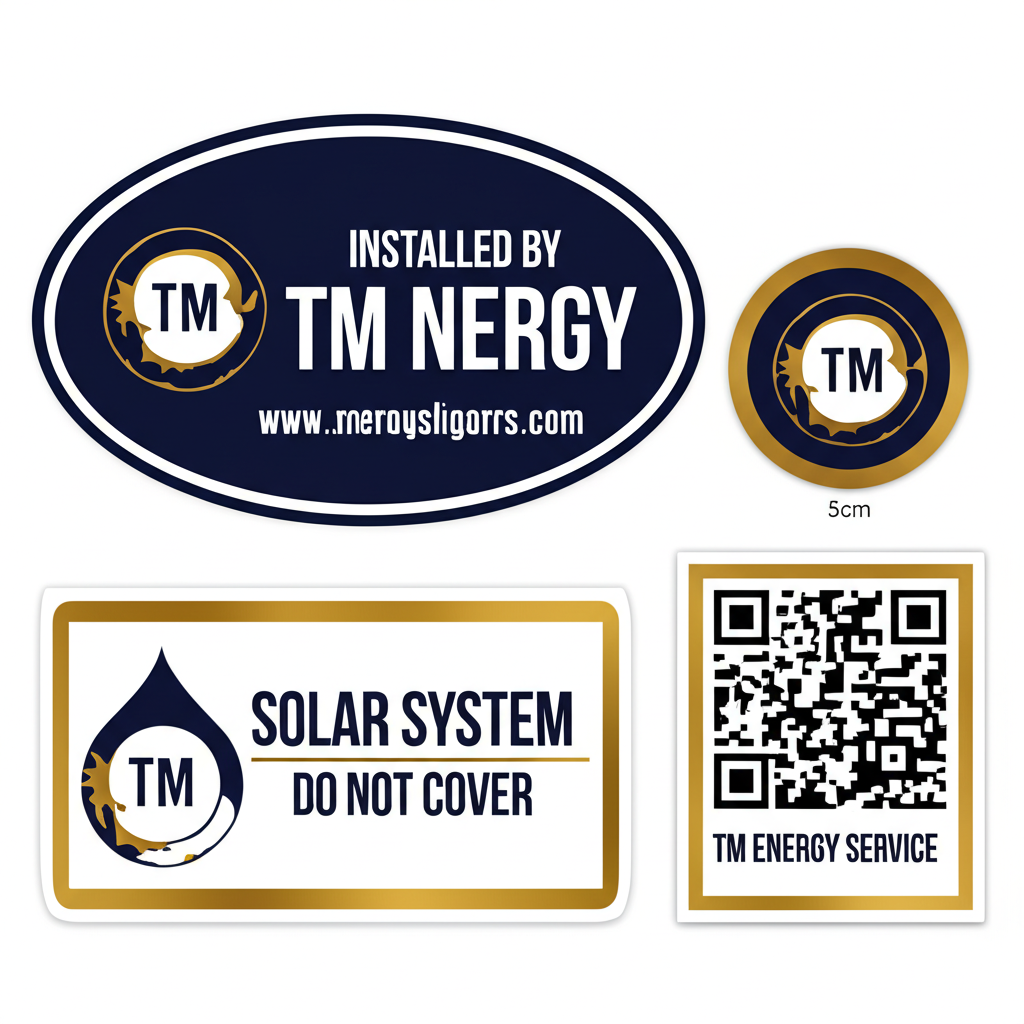
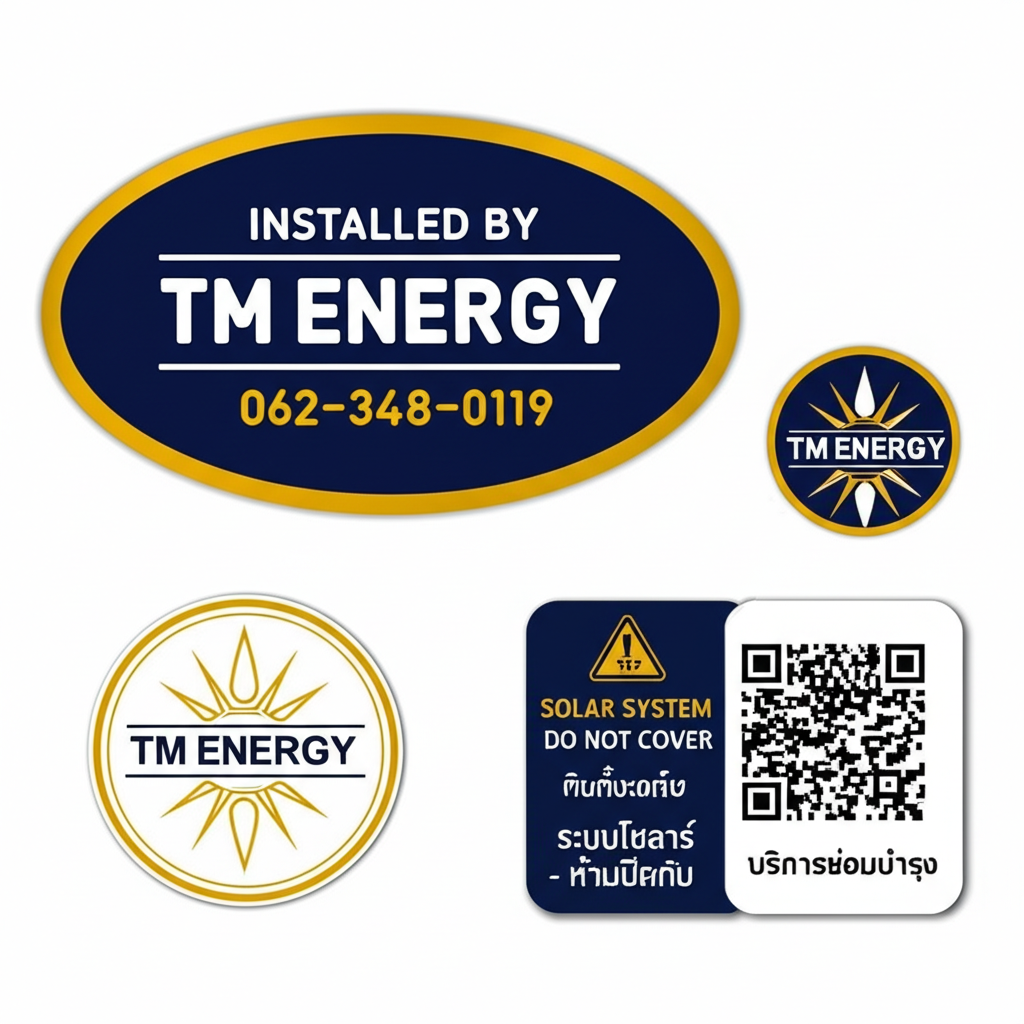
Brand kit v2: added Thai text to all assets

diff --git a/brand-kit.html b/brand-kit.html
@@ -149,7 +149,7 @@ section{padding:60px 0}
 <img src="brand-kit/vehicle-wrap.png" alt="Vehicle Wrap">
 <div class="asset-card-body">
 <h4>🚗 עיטוף רכב — Toyota Hilux</h4>
-<p>לוגו TM Energy על דלתות, קרני שמש על הצד, פרטי קשר. Navy + Gold על רכב לבן.</p>
+<p>לוגו TM Energy + พลังงานแสงอาทิตย์ על דלתות, ติดตั้งโซลาร์เซลล์ בגב. Navy + Gold.</p>
 <div class="specs">תבנית להדפסה: 3M vinyl wrap · 300 DPI</div>
 </div>
 </div>
@@ -158,7 +158,7 @@ section{padding:60px 0}
 <img src="brand-kit/tshirt-design.png" alt="T-shirt Design">
 <div class="asset-card-body">
 <h4>👕 חולצת עובדים — פולו כחול כהה</h4>
-<p>לוגו קטן בחזה שמאל, TM ENERGY + SOLAR POWER SOLUTIONS בגב. Navy polo.</p>
+<p>לוגו בחזה, TM ENERGY + ทีเอ็ม เอนเนอร์จี้ พลังงานแสงอาทิตย์ בגב. Navy polo.</p>
 <div class="specs">הזמנה: Polo cotton 220gsm · רקמה/הדפסה</div>
 </div>
 </div>
@@ -167,7 +167,7 @@ section{padding:60px 0}
 <img src="brand-kit/safety-gear.png" alt="Safety Gear">
 <div class="asset-card-body">
 <h4>⛑ קסדה + אפוד בטיחות</h4>
-<p>קסדה לבנה עם לוגו TM Energy. אפוד Navy עם פסי זהב + SOLAR INSTALLATION TEAM.</p>
+<p>קסדה עם ทีเอ็ม เอนเนอร์จี้. אפוד עם ทีมติดตั้งโซลาร์ (Solar Installation Team) בגב.</p>
 <div class="specs">קסדה: מדבקה ויניל · אפוד: הדפסה על בד</div>
 </div>
 </div>
@@ -176,7 +176,7 @@ section{padding:60px 0}
 <img src="brand-kit/business-card.png" alt="Business Card">
 <div class="asset-card-body">
 <h4>💼 כרטיס ביקור</h4>
-<p>חזית: Navy + לוגו + שם + תפקיד. גב: לבן + לוגו גדול + OWN YOUR ENERGY.</p>
+<p>חזית: Navy + לוגו + שם + ผู้ร่วมก่อตั้ง. גב: เป็นเจ้าของพลังงาน + เกาะพะงัน สุราษฎร์ธานี.</p>
 <div class="specs">90×55mm · 350gsm matte · embossed gold foil</div>
 </div>
 </div>
@@ -185,7 +185,7 @@ section{padding:60px 0}
 <img src="brand-kit/equipment-stickers.png" alt="Equipment Stickers">
 <div class="asset-card-body">
 <h4>🏷 מדבקות ציוד</h4>
-<p>INSTALLED BY TM ENERGY, לוגו עגול, SOLAR SYSTEM WARNING, QR code service.</p>
+<p>ติดตั้งโดย TM Energy, ระบบโซลาร์ - ห้ามปิดทับ, QR בริการซ่อมบำรุง.</p>
 <div class="specs">Weatherproof vinyl · UV resistant · 3-5 year outdoor</div>
 </div>
 </div>
@@ -194,7 +194,7 @@ section{padding:60px 0}
 <img src="brand-kit/site-banner.png" alt="Site Banner">
 <div class="asset-card-body">
 <h4>🚧 שלט אתר בנייה</h4>
-<p>SOLAR INSTALLATION IN PROGRESS + לוגו TM Energy + TM Developers. 3 מטר.</p>
+<p>กำลังติดตั้งระบบโซลาร์เซลล์ + SOLAR INSTALLATION IN PROGRESS + เกาะพะงัน. 3 מטר.</p>
 <div class="specs">3000×1000mm · PVC banner · 440gsm · eyelets</div>
 </div>
 </div>
@@ -210,10 +210,12 @@ section{padding:60px 0}
 <h2 class="section-title">סלוגנים ומסרים</h2>
 
 <div style="display:grid;grid-template-columns:repeat(auto-fit,minmax(250px,1fr));gap:16px">
-<div class="type-sample"><h3 style="color:var(--gold);font-family:'Space Grotesk';font-size:20px">Own Your Energy</h3><p style="font-size:12px;color:var(--gray)">סלוגן ראשי — אנגלית</p></div>
-<div class="type-sample"><h3 style="color:var(--gold);font-family:'Space Grotesk';font-size:20px">เป็นเจ้าของพลังงาน</h3><p style="font-size:12px;color:var(--gray)">סלוגן ראשי — תאית</p></div>
-<div class="type-sample"><h3 style="color:var(--gold);font-family:'Space Grotesk';font-size:20px">Powering Koh Phangan's Future</h3><p style="font-size:12px;color:var(--gray)">Tagline — אנגלית</p></div>
-<div class="type-sample"><h3 style="color:var(--gold);font-family:'Space Grotesk';font-size:20px">Solar Power Solutions</h3><p style="font-size:12px;color:var(--gray)">תת-כותרת קבועה</p></div>
+<div class="type-sample"><h3 style="color:var(--gold);font-family:'Space Grotesk';font-size:20px">Own Your Energy</h3><p style="font-size:12px;color:var(--gray)">סלוגן ראשי — EN</p></div>
+<div class="type-sample"><h3 style="color:var(--gold);font-size:20px">เป็นเจ้าของพลังงาน</h3><p style="font-size:12px;color:var(--gray)">סלוגן ראשי — TH</p></div>
+<div class="type-sample"><h3 style="color:var(--gold);font-family:'Space Grotesk';font-size:20px">Powering Koh Phangan's Future</h3><p style="font-size:12px;color:var(--gray)">Tagline — EN</p></div>
+<div class="type-sample"><h3 style="color:var(--gold);font-size:20px">ขับเคลื่อนอนาคตเกาะพะงัน</h3><p style="font-size:12px;color:var(--gray)">Tagline — TH</p></div>
+<div class="type-sample"><h3 style="color:var(--gold);font-family:'Space Grotesk';font-size:20px">Solar Power Solutions</h3><p style="font-size:12px;color:var(--gray)">תת-כותרת — EN</p></div>
+<div class="type-sample"><h3 style="color:var(--gold);font-size:20px">โซลูชันพลังงานแสงอาทิตย์</h3><p style="font-size:12px;color:var(--gray)">תת-כותרת — TH</p></div>
 </div>
 </div>
 </section>
